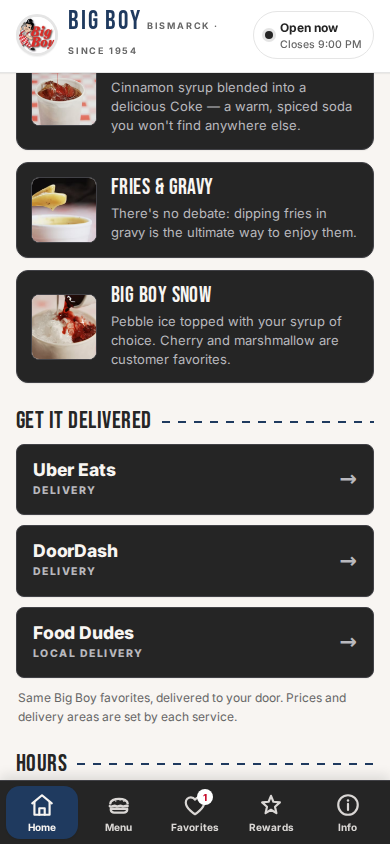
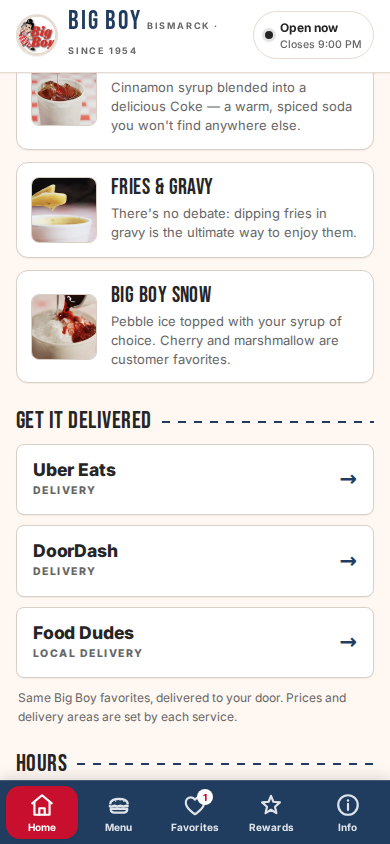
Align visual identity with Big Boy restaurant branding
- Warm cream #FFF8F2 and white #FFFFFF become dominant backgrounds.
- Big Boy red #C8102E for primary actions, selected states, active nav.
- Heritage navy #203D60 for navigation, section accents, secondary controls.
- Convert menu, rewards, delivery, info, awards, specials cards to light
  surfaces with subtle warm borders.
- Make menu category filter thumbnails circular (40px, object-fit cover)
  without changing image files, names, order, or selection behavior.
- Update theme color, app-shell hash, screenshots, README, and CHANGELOG.

diff --git a/index.html b/index.html
@@ -3,7 +3,7 @@
 <head>
 <meta charset="UTF-8">
 <meta name="viewport" content="width=device-width, initial-scale=1, viewport-fit=cover">
-<meta name="theme-color" content="#F8F5F2">
+<meta name="theme-color" content="#FFF8F2">
 <meta http-equiv="Content-Security-Policy" content="default-src 'self'; script-src 'self'; style-src 'self' 'unsafe-inline' https://fonts.googleapis.com; img-src 'self' data: https://static.wixstatic.com https://www.google.com/s2/favicons; connect-src 'self'; font-src 'self' https://fonts.gstatic.com; frame-src 'self' https://www.openstreetmap.org https://openstreetmap.org https://fooddudesdelivery.com https://www.fooddudesdelivery.com; object-src 'none'; base-uri 'self'; form-action 'self';">
 <meta name="referrer" content="strict-origin-when-cross-origin">
 <meta name="apple-mobile-web-app-capable" content="yes">
@@ -21,28 +21,29 @@
 <style>
 :root{
   /* ---- brand ---- */
-  --navy:#1F3A5F;        /* main accent */
-  --navy-dark:#152A45;   /* pressed navy */
-  --red:#C8102E;         /* limited accent: awards, highlights, focus */
-  --red-dark:#9B0B23;
+  --red:#C8102E;        /* primary action */
+  --red-dark:#9B0B23;   /* pressed red */
+  --navy:#203D60;       /* heritage navy */
+  --navy-dark:#152A45;  /* pressed navy */
 
   /* ---- surfaces ---- */
-  --bg:#F8F5F2;         /* cream page background */
-  --paper:#FFFFFF;      /* header, status, light chips */
-  --card:#252525;       /* dark charcoal cards / diner board */
-  --card-raised:#2E2E30;/* secondary surface on dark cards */
-  --nav:#252525;        /* bottom nav */
+  --bg:#FFF8F2;         /* warm cream page background */
+  --paper:#FFFFFF;      /* pure white surfaces */
+  --card:#FFFFFF;       /* light cards */
+  --card-raised:#F1E7DD;/* light diner beige */
+  --nav:#203D60;        /* navy bottom nav */
 
   /* ---- text ---- */
   --ink:#252525;
   --ink-soft:#666666;
-  --on-card:#F8F5F2;     /* cream on dark cards */
-  --on-card-soft:#B9B9BE;/* muted cream on dark cards */
+  --on-card:#252525;     /* text on light cards */
+  --on-card-soft:#666666;
   --on-dark:#FFFFFF;
+  --on-dark-soft:rgba(255,255,255,.82);
 
   /* ---- lines ---- */
-  --line:#E5E5E5;
-  --line-dark:#414146;
+  --line:#E6DCD2;
+  --line-dark:#D8CFC6;
 
   /* ---- elevation (minimal) ---- */
   --shadow:0 1px 2px rgba(0,0,0,.08);
@@ -98,8 +99,8 @@ img{max-width:100%}
 .retro-icon-button .icon{display:grid;place-items:center;flex:none;color:var(--on-card);filter:none}
 .retro-icon-button .icon svg{width:100%;height:100%;display:block;stroke-width:2.5}
 .retro-icon-button .label{color:var(--on-card);font-weight:700;text-align:center;letter-spacing:-.01em;line-height:1.2}
-.retro-icon-button.primary{background:var(--navy);border-color:var(--navy-dark);color:var(--on-dark);box-shadow:var(--shadow)}
-.retro-icon-button.primary:hover{background:var(--navy-dark);border-color:var(--navy-dark)}
+.retro-icon-button.primary{background:var(--red);border-color:var(--red-dark);color:var(--on-dark);box-shadow:var(--shadow)}
+.retro-icon-button.primary:hover{background:var(--red-dark);border-color:var(--red-dark)}
 .retro-icon-button.primary:focus-visible{outline-color:var(--on-dark)}
 .retro-icon-button.primary .icon{color:var(--on-dark)}
 .retro-icon-button.primary .label{color:var(--on-dark)}
@@ -168,30 +169,30 @@ header{
 /* ---------- hero ---------- */
 .hero{
   position:relative;overflow:hidden;border-radius:var(--radius);
-  background:var(--card);color:var(--on-card);padding:30px 20px 24px;
-  border:1px solid var(--line-dark);box-shadow:var(--shadow);
+  background:var(--navy);color:var(--on-dark);padding:30px 20px 24px;
+  border:1px solid rgba(255,255,255,.25);box-shadow:var(--shadow);
   min-height:250px;display:flex;flex-direction:column;justify-content:flex-end;
 }
-.hero-bg{position:absolute;inset:0;width:100%;height:100%;object-fit:cover;z-index:0;opacity:.55}
-.hero-tint{position:absolute;inset:0;z-index:1;background:linear-gradient(180deg,rgba(37,37,37,.35) 0%,rgba(37,37,37,.75) 55%,rgba(37,37,37,.92) 100%)}
+.hero-bg{position:absolute;inset:0;width:100%;height:100%;object-fit:cover;z-index:0;opacity:.6}
+.hero-tint{position:absolute;inset:0;z-index:1;background:linear-gradient(180deg,rgba(32,61,96,.45) 0%,rgba(32,61,96,.78) 60%,rgba(21,42,69,.95) 100%)}
 .hero-check{
-  position:absolute;inset:0;z-index:1;opacity:.18;
+  position:absolute;inset:0;z-index:1;opacity:.12;
   background-image:
     linear-gradient(45deg,rgba(255,255,255,.12) 25%,transparent 25%,transparent 75%,rgba(255,255,255,.12) 75%),
     linear-gradient(45deg,rgba(255,255,255,.12) 25%,transparent 25%,transparent 75%,rgba(255,255,255,.12) 75%);
   background-size:28px 28px;background-position:0 0,14px 14px;
 }
 .hero>*:not(.hero-bg):not(.hero-tint):not(.hero-check){position:relative;z-index:2}
-.hero .eyebrow{font-size:11px;letter-spacing:.3em;font-weight:800;color:var(--on-card);margin:0 0 8px}
+.hero .eyebrow{font-size:11px;letter-spacing:.3em;font-weight:800;color:var(--on-dark);margin:0 0 8px}
 .hero h1{font-size:52px;margin:0;line-height:.9;letter-spacing:.005em}
-.hero p{margin:12px 0 0;font-size:14.5px;line-height:1.55;color:var(--on-card-soft);max-width:34ch}
+.hero p{margin:12px 0 0;font-size:14.5px;line-height:1.55;color:var(--on-dark-soft);max-width:34ch}
 .hero .years{
   display:inline-flex;align-items:center;gap:8px;margin-top:16px;
   background:var(--red);color:var(--on-dark);
   font-weight:800;font-size:12px;letter-spacing:.06em;
   padding:8px 13px;border-radius:var(--radius-pill);align-self:flex-start;
 }
-.hero .addr{margin-top:14px;font-size:13px;color:var(--on-card-soft);line-height:1.6}
+.hero .addr{margin-top:14px;font-size:13px;color:var(--on-dark-soft);line-height:1.6}
 
 /* ---------- quick actions ---------- */
 .qa{display:grid;grid-template-columns:repeat(2,minmax(0,1fr));gap:12px;margin-top:16px}
@@ -244,7 +245,7 @@ header{
 .del .n{display:block;font-size:17.5px;font-weight:800;letter-spacing:-.01em;line-height:1.15}
 .del .n em{font-style:normal;color:var(--on-card)}
 .del .s{display:block;margin-top:3px;font-size:10.5px;font-weight:800;letter-spacing:.14em;text-transform:uppercase;color:var(--on-card-soft)}
-.del .go{position:relative;z-index:1;font-size:21px;color:var(--on-card-soft);font-weight:700}
+.del .go{position:relative;z-index:1;font-size:21px;color:var(--navy);font-weight:700}
 .delivery-note{font-size:12px;color:var(--ink-soft);margin:11px 2px 0;line-height:1.55}
 
 /* ---------- awards ---------- */
@@ -266,10 +267,12 @@ header{
 .search .clear{width:26px;height:26px;flex:none;display:none;place-items:center;border-radius:50%;background:var(--bg);color:var(--ink-soft)}
 .search .clear svg{width:14px;height:14px}
 .search.has .clear{display:grid}
-.chips{display:flex;gap:8px;overflow-x:auto;padding:14px 2px 4px;margin:0 -2px;scrollbar-width:none}
+.chips{display:flex;gap:10px;overflow-x:auto;padding:14px 2px 6px;margin:0 -2px;scrollbar-width:none}
 .chips::-webkit-scrollbar{display:none}
-.chip{flex:none;display:inline-flex;align-items:center;min-height:38px;padding:8px 15px;border-radius:var(--radius-pill);font-size:12.5px;font-weight:700;background:var(--paper);border:1px solid var(--line);color:var(--ink-soft);transition:.15s;white-space:nowrap}
-.chip.on{background:var(--navy);border-color:var(--navy);color:var(--on-dark);box-shadow:var(--shadow)}
+.chip{flex:none;display:inline-flex;align-items:center;min-height:48px;padding:8px 18px 8px 10px;border-radius:var(--radius-pill);font-size:12.5px;font-weight:700;background:var(--paper);border:1px solid var(--line);color:var(--ink-soft);transition:.15s;white-space:nowrap}
+.chip .chip-thumb{width:40px;height:40px;border-radius:50%;object-fit:cover;object-position:center;flex-shrink:0;margin-right:8px;background:var(--card-raised)}
+.chip.on{background:var(--red);border-color:var(--red);color:var(--on-dark);box-shadow:var(--shadow)}
+.chip.on .chip-thumb{box-shadow:0 0 0 2px rgba(255,255,255,.5)}
 .chip:hover:not(.on){border-color:var(--ink);color:var(--ink)}
 
 /* ---------- menu items ---------- */
@@ -297,8 +300,8 @@ header{
 .orderbar{position:fixed;left:0;right:0;bottom:calc(var(--nav-h) + env(safe-area-inset-bottom));z-index:35;padding:10px 16px 12px;background:linear-gradient(to top,var(--bg) 72%,transparent);display:none}
 .orderbar.show{display:block}
 #s-menu.active{padding-bottom:88px}
-.orderbar a{display:flex;align-items:center;justify-content:center;gap:9px;background:var(--navy);color:var(--on-dark);text-decoration:none;padding:15px;min-height:52px;border-radius:var(--radius-pill);font-weight:800;font-size:14.5px;letter-spacing:.05em;box-shadow:var(--shadow);transition:background-color .15s ease,transform .12s ease}
-.orderbar a:hover{background:var(--navy-dark)}
+.orderbar a{display:flex;align-items:center;justify-content:center;gap:9px;background:var(--red);color:var(--on-dark);text-decoration:none;padding:15px;min-height:52px;border-radius:var(--radius-pill);font-weight:800;font-size:14.5px;letter-spacing:.05em;box-shadow:var(--shadow);transition:background-color .15s ease,transform .12s ease}
+.orderbar a:hover{background:var(--red-dark)}
 .orderbar a:active{transform:scale(.98)}
 .orderbar a:focus-visible{outline-color:var(--on-dark)}
 .orderbar .ico{width:22px;height:22px;border-radius:50%;overflow:hidden;flex:none}
@@ -309,12 +312,12 @@ header{
 .empty .big{font-size:52px;opacity:.25;color:var(--ink-soft)}
 .empty h3{font-size:26px;color:var(--ink);margin:12px 0 6px}
 .empty p{font-size:13.5px;margin:0 0 18px;line-height:1.6}
-.btn{display:inline-flex;align-items:center;justify-content:center;gap:8px;background:var(--navy);color:var(--on-dark);text-decoration:none;padding:14px 24px;min-height:48px;border-radius:var(--radius-pill);font-weight:800;font-size:14px;letter-spacing:.04em;box-shadow:var(--shadow);border:2px solid var(--navy);transition:background-color .15s ease,border-color .15s ease,transform .12s ease}
-.btn:hover{background:var(--navy-dark);border-color:var(--navy-dark)}
+.btn{display:inline-flex;align-items:center;justify-content:center;gap:8px;background:var(--red);color:var(--on-dark);text-decoration:none;padding:14px 24px;min-height:48px;border-radius:var(--radius-pill);font-weight:800;font-size:14px;letter-spacing:.04em;box-shadow:var(--shadow);border:2px solid var(--red);transition:background-color .15s ease,border-color .15s ease,transform .12s ease}
+.btn:hover{background:var(--red-dark);border-color:var(--red-dark)}
 .btn:focus-visible{outline-color:var(--on-dark)}
 .btn.ghost{background:var(--paper);color:var(--ink);border:2px solid var(--ink);box-shadow:none}
 .btn.ghost:hover{background:var(--bg);border-color:var(--ink)}
-.btn.dark{background:var(--card);border-color:var(--card);box-shadow:none;color:var(--on-card)}
+.btn.dark{background:#252525;border-color:#252525;box-shadow:none;color:var(--on-dark)}
 .btn.dark:hover{background:#3A3A3C;border-color:#3A3A3C}
 .btn.block{display:flex;width:100%}
 .btn:active{transform:scale(.98)}
@@ -391,7 +394,7 @@ blockquote cite{display:block;margin-top:9px;font-style:normal;font-weight:700;f
 .fb-deal-open svg{width:13px;height:13px;fill:none;stroke:currentColor}
 .alert-card{display:flex;gap:12px;align-items:center;background:var(--card);border:1px solid var(--line-dark);border-radius:var(--radius);padding:16px 18px;box-shadow:var(--shadow-soft);margin-top:16px}
 .alert-info{flex:1;min-width:0;color:var(--on-card-soft);font-size:13.5px;line-height:1.5;margin:0}
-.alert-toggle{flex:none;padding:10px 18px;min-height:42px;border-radius:var(--radius-pill);font-weight:800;font-size:13px;color:var(--on-dark);background:var(--navy);transition:.15s;cursor:pointer}
+.alert-toggle{flex:none;padding:10px 18px;min-height:42px;border-radius:var(--radius-pill);font-weight:800;font-size:13px;color:var(--on-dark);background:var(--red);transition:.15s;cursor:pointer}
 .alert-toggle[data-state="off"]{background:var(--paper);color:var(--ink);border:1px solid var(--line)}
 .alert-toggle[data-state="off"]:hover{border-color:var(--ink)}
 .alert-toggle:focus-visible{outline-color:var(--on-dark)}
@@ -401,22 +404,22 @@ nav.tabbar{
   position:fixed;left:0;right:0;bottom:0;z-index:50;
   height:calc(var(--nav-h) + env(safe-area-inset-bottom));
   padding:0 6px env(safe-area-inset-bottom);
-  background:var(--nav);color:var(--on-card);
-  border-top:1px solid var(--line-dark);
+  background:var(--nav);color:var(--on-dark);
+  border-top:1px solid rgba(255,255,255,.15);
   box-shadow:0 -4px 12px rgba(0,0,0,.12);
   display:grid;grid-template-columns:repeat(5,minmax(0,1fr));gap:4px;align-items:stretch;
 }
 .tab{
-  margin:5px 0;padding:6px 2px;gap:3px;color:var(--on-card);position:relative;
+  margin:5px 0;padding:6px 2px;gap:3px;color:var(--on-dark);position:relative;
   background:transparent;border:0;border-radius:14px;box-shadow:none;
   min-height:var(--tap);-webkit-tap-highlight-color:transparent;
   transition:background-color .15s ease,transform .15s ease;
 }
-.tab:hover:not(.on){background:rgba(255,255,255,.08);box-shadow:none}
-.tab .icon{width:26px;height:26px;color:var(--on-card);opacity:.86;filter:none}
+.tab:hover:not(.on){background:rgba(255,255,255,.12);box-shadow:none}
+.tab .icon{width:26px;height:26px;color:var(--on-dark);opacity:.86;filter:none}
 .tab .icon svg{fill:none}
-.tab .label{font-size:10px;font-weight:700;letter-spacing:.01em;color:var(--on-card);opacity:.86}
-.tab.on{background:var(--navy);color:var(--on-dark);box-shadow:var(--shadow)}
+.tab .label{font-size:10px;font-weight:700;letter-spacing:.01em;color:var(--on-dark);opacity:.86}
+.tab.on{background:var(--red);color:var(--on-dark);box-shadow:var(--shadow)}
 .tab.on .icon,.tab.on .label{opacity:1}
 .tab.on:focus-visible{outline-color:var(--on-dark)}
 .tab .badge{position:absolute;top:3px;right:calc(50% - 18px);min-width:16px;height:16px;padding:0 4px;border-radius:var(--radius-pill);background:var(--paper);color:var(--red);font-size:9.5px;font-weight:800;display:none;align-items:center;justify-content:center;box-shadow:var(--shadow-soft)}

diff --git a/app.js b/app.js
@@ -332,9 +332,9 @@ function renderChips(){
     }
   });
   $('#chips').innerHTML = CATS.map(c => {
-    const imgSrc = wix(imgMap[c.id], 16, 16);
+    const imgSrc = wix(imgMap[c.id], 40, 40);
     const imgHtml = imgSrc
-      ? `<img class="chip-thumb" src="${escapeHtml(imgSrc)}" alt="" style="width:16px;height:16px;flex-shrink:0;margin-right:8px;">`
+      ? `<img class="chip-thumb" src="${escapeHtml(imgSrc)}" alt="">`
       : '';
     return `<button class="chip ${state.cat===c.id?'on':''}" data-cat="${escapeHtml(c.id)}">${imgHtml}${escapeHtml(c.name)}</button>`;
   }).join('');

diff --git a/README.md b/README.md
@@ -5,7 +5,7 @@
 [![Built with: OpenCode](https://img.shields.io/badge/Built%20with-OpenCode-4da167)](https://opencode.ai)
 [![Live app](https://img.shields.io/badge/Live%20app-GitHub%20Pages-00aaff)](https://midnightraven9.github.io/bismarck-big-boy-app/)
 
-A customer-facing mobile web app for [Bismarck Big Boy](https://www.bismarckbigboy.com/), the original 1954 drive-in at 2511 E Main Ave, Bismarck, ND. Built with plain HTML, CSS and JavaScript — no build step, framework, analytics or backend. The installable Progressive Web App opens like a native app on Android and iPhone. The current design uses a cream background, dark charcoal menu-board cards, deep navy accents and Big Boy red highlights.
+A customer-facing mobile web app for [Bismarck Big Boy](https://www.bismarckbigboy.com/), the original 1954 drive-in at 2511 E Main Ave, Bismarck, ND. Built with plain HTML, CSS and JavaScript — no build step, framework, analytics or backend. The installable Progressive Web App opens like a native app on Android and iPhone. The current design uses a warm cream and white background, Big Boy red action accents, heritage navy navigation, and light cards with subtle borders.
 
 ## Features
 

diff --git a/CHANGELOG.md b/CHANGELOG.md
@@ -3,6 +3,21 @@
 Notable changes to the Bismarck Big Boy mobile web app. The installable Android
 build uses release tag `v1.0.0`; the web app shell cache version is in `sw.js`.
 
+## 2026-11-20 — Brand-aligned red, white, and blue refresh
+
+### Changed
+- Rebalanced the palette to match the restaurant’s classic identity: warm cream
+  `#FFF8F2` and pure white `#FFFFFF` as dominant backgrounds, Big Boy red
+  `#C8102E` for primary actions and selected states, heritage navy `#203D60`
+  for navigation and secondary accents.
+- Converted menu, rewards, delivery, info, awards, specials, and alert cards
+  from dark charcoal to light cards with subtle warm borders.
+- Made menu category filter thumbnails perfectly circular (`40px × 40px`,
+  `border-radius:50%`, `object-fit:cover`) while keeping the same image files,
+  names, order, and selection behavior.
+- Updated the active bottom-nav tab, order bar, primary buttons, and selected
+  category chip to red; size chips and section accents remain navy.
+
 ## 2026-11-20 — Classic Diner redesign and splash update
 
 ### Changed
